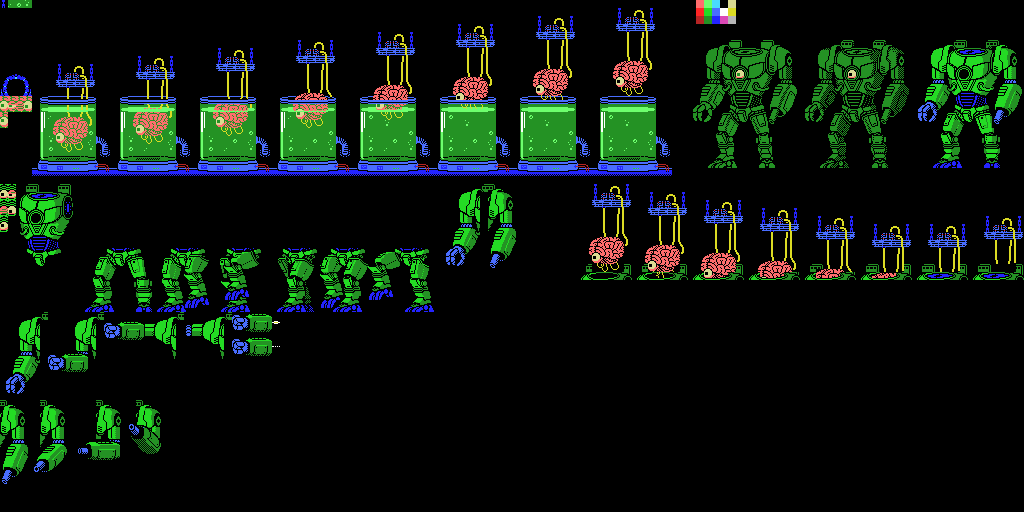
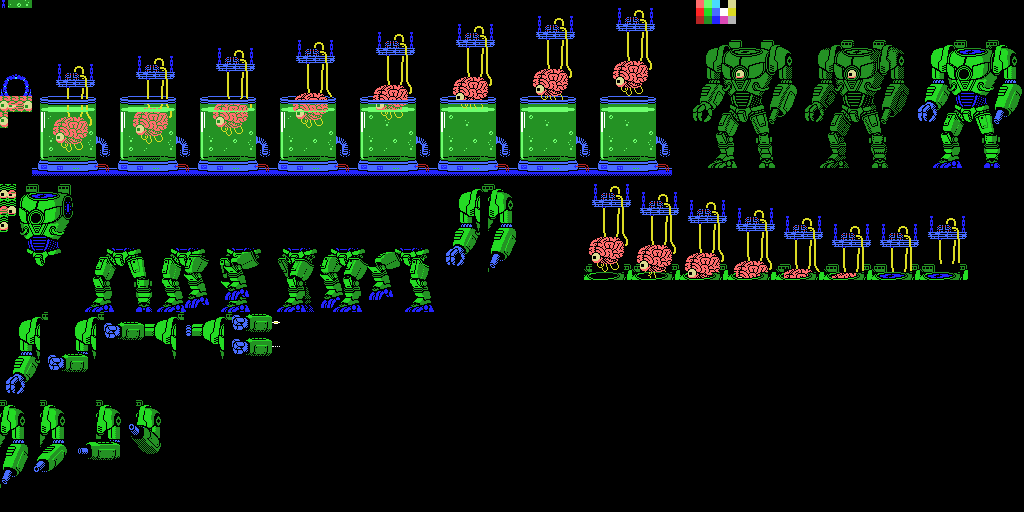
brain is lowered into the suit in boss 8

Changed region(s): [[0.5938, 0.375, 1.0, 0.5625]]

diff --git a/java/src/xspelunker2/Bosses.java b/java/src/xspelunker2/Bosses.java
@@ -1118,10 +1118,6 @@ public class Bosses {
         nameTableBoxes.add(new int[]{576, 184, 1024, 280});  // lowering brain into suit
         nameTableBoxes.add(new int[]{0, 72, 32, 96});  // teleporter
         List<int[][]> nametables_phase1b_12 = addBossTilesInGapsForBoxes(nameTableBoxes, baseImage_phase1b_12, boss5TilesPath, availableTiles_phase1b_12, collision_phase1b_12, false, false);
-//        nameTableBoxes.clear();
-//        nameTableBoxes.add(new int[]{0, 256, 152, 312});  // eyes, suit core, base legs (bank 3)
-//        nameTableBoxes.add(new int[]{440, 256, 520, 272});  // base arms (bank 3)
-//        List<int[][]> nametables_phase1b_3 = addBossTilesInGapsForBoxes(nameTableBoxes, baseImage_phase1b_3, boss5TilesPath, availableTiles_phase1b_3, collision_phase1b_3, false, false);
         nameTableBoxes.clear();
         nameTableBoxes.add(new int[]{0, 184, 520, 184 + 72});  // suit (banks 1-2) (common)
         nameTableBoxes.add(new int[]{0, 312, 520, 312 + 72});  // suit (banks 1-2) (left arm)
@@ -1152,8 +1148,6 @@ public class Bosses {
         GenerateTiles.extractTiles("data/boss8-phase1-tiles.png", "src/autogenerated/boss8-phase1-tiles", 24, 128);
         ImageIO.write(baseImage_phase1b_12, "png", new File("data/boss8-phase1b-12-tiles.png"));
         GenerateTiles.extractTiles("data/boss8-phase1b-12-tiles.png", "src/autogenerated/boss8-phase1b-12-tiles", 24, 128);
-//        ImageIO.write(baseImage_phase1b_3, "png", new File("data/boss8-phase1b-3-tiles.png"));
-//        GenerateTiles.extractTiles("data/boss8-phase1b-3-tiles.png", "src/autogenerated/boss8-phase1b-3-tiles", 24, 128);
         ImageIO.write(baseImage_phase2_12a, "png", new File("data/boss8-phase2-bank1-tiles.png"));
         GenerateTiles.extractTiles("data/boss8-phase2-bank1-tiles.png", "src/autogenerated/boss8-phase2-bank1-tiles", 24, 128);
         ImageIO.write(baseImage_phase2_12b, "png", new File("data/boss8-phase2-bank1b-tiles.png"));
@@ -1183,6 +1177,16 @@ public class Bosses {
 
         addNameTable(nameTable, 76, 0, 80, 1, nameTableData);  // (4x1) (4 additional empty tiles to make a full row of emptiness for the frame below)
         addNameTable(nameTable, 74, 12, 84, 22, nameTableData);  // empty vat (10x10)
+
+        nameTable = nametables_phase1b_12.get(2);
+        addNameTable(nameTable, 1, 0, 7, 12, nameTableData);  // lowering brain into suit (6x12)
+        addNameTable(nameTable, 7, 1, 13, 12, nameTableData);  // lowering brain into suit (6x11)
+        addNameTable(nameTable, 13, 2, 19, 12, nameTableData);  // lowering brain into suit (6x10)
+        addNameTable(nameTable, 19, 3, 25, 12, nameTableData);  // lowering brain into suit (6x9)
+        addNameTable(nameTable, 25, 4, 31, 12, nameTableData);  // lowering brain into suit (6x8)
+        addNameTable(nameTable, 31, 5, 37, 12, nameTableData);  // lowering brain into suit (6x7)
+        addNameTable(nameTable, 37, 5, 43, 12, nameTableData);  // lowering brain into suit (6x7)
+        addNameTable(nameTable, 43, 4, 49, 12, nameTableData);  // lowering brain into suit (6x8)
         
         // Suit:
         // eyes:
@@ -1215,6 +1219,7 @@ public class Bosses {
         // right arm:
         addNameTable(nametables_phase1b_12.get(1), 59, 0, 63, 9, nameTableData);
         addNameTable(nametables_phase2_3.get(0), 61, 0, 65, 2, nameTableData);  // base position (4x11) [two parts]        
+        // ...
         
         
         System.out.println("name tables: " + nameTableData.size() + " bytes");
@@ -1317,7 +1322,7 @@ public class Bosses {
                             for(int jj = 0;jj<nametable[ii].length;jj++) {
                                 if (nametable[ii][jj] == i) {
                                     nametable[ii][jj] = j;
-                                } else if (nametable[ii][jj] == i) {
+                                } else if (nametable[ii][jj] == j) {
                                     nametable[ii][jj] = i;
                                 }
                             }
